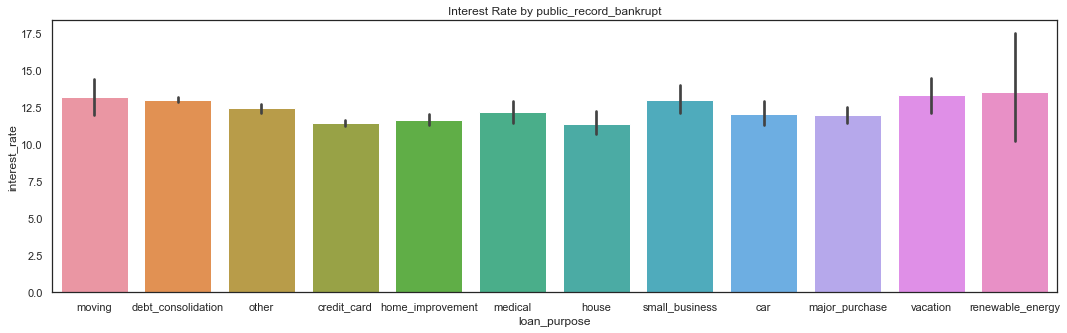
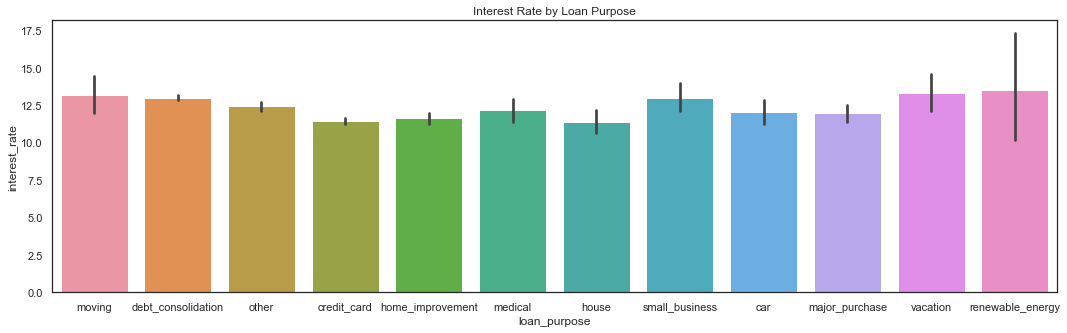
Typo changes

diff --git a/casestudy1.html b/casestudy1.html
@@ -52,7 +52,7 @@
 			<div class="row justify-content-center">
 				<br><br>
 					<h2 class="h4">Dataset Description</h2>
-					<p style="">This Dataset talks about whether individuals can lend loan toother individuals based on various factors. The entire dataset is a list of people whose loans are granted. This dataset help easily identify the risk factor and whether or not we have lend loan to people whom we do not know based on certain factors like income, reason for loa, joint or individual application, what the home ownership status etc. We are aiming to calculate the interest rate that can be given to a person if loan is granted based on the status of the person. </p>
+					<p style="">This Dataset talks about whether individuals can lend loan to other individuals based on various factors. The entire dataset is a list of people whose loans are granted. This dataset help easily identify the risk factor and whether or not we have lend loan to people whom we do not know based on certain factors like income, reason for loan, joint or individual application, what the home ownership status etc. We are aiming to calculate the interest rate that can be given to a person if loan is granted based on the status of the person. </p>
 					<br>
 					<p>I feel that the data is biased as the list of loans consist mostly of people paying off their loan taken and also all the individuals are people who have their loans granted. Hence, an unbiased dataset will help us predict a much better model whether we can give loan and the risk factor involved. The dataset is not clean and has  lots of missing data. There are lots  of categorical unwanted variables that may ruin the calculation of interest rate when training a model.</p>
 					<br><br>
@@ -60,11 +60,11 @@
 					<h2 class="heading-section">Visualizations</h2>
 					<h4 class="h4">Plot 1</h4>
 					<img src="images/CaseStudy1/vis1.png" width=600 height="425" style="vertical-align:bottom">
-					<p>This is a frequency distribution of loan amount given. As we can see, around $10000 is the most frequently given loan to people. And one more interesting fact that we can notice is that the value peaks only at whole numbers which suggests that most people take personal loans without exactly calculating how much they want and hence they take a lump sum and use it accordingly.</p>
+					<p>This is a frequency distribution of loan amount given. As we can see, around $10000 is the most frequently given loan to people. Another interesting fact that we can notice is that the value peaks only at whole numbers which suggests that most people take personal loans without exactly calculating how much they want and hence they take a lump sum and use it accordingly.</p>
 					<br><br>
 					<h4 class="h4">Plot 2</h4>
 					<img src="images/CaseStudy1/vis2.png" width=600 height="425" style="vertical-align:bottom">
-					<p>This graph talks about the interest rate given tothe people who asked for the loan. Surprisingly there are people who have taken interest rates greater than 18% as thats a huge rate. We can see that 10% is the most frequenntly given interest rate.</p>
+					<p>This graph talks about the interest rate given to the people who asked for the loan. Surprisingly there are people who have taken interest rates greater than 18% as thats a huge rate. We can see that 10% is the most frequenntly given interest rate.</p>
 					<br><br>
 					<h4 class="h4">Plot 3</h4>
 					<img src="images/CaseStudy1/vis3.png" width=600 height="425" style="vertical-align:bottom">
@@ -72,7 +72,7 @@
 					<br><br>
 					<h4 class="h4">Plot 4</h4>
 					<img src="images/CaseStudy1/vis4.png" width=600 height="425" style="vertical-align:bottom">
-					<p>This plot talks about different interest rates for different loan_purposes. The line on top of graph talks about possible error rate in the data in that category.</p>
+					<p>This plot talks about different interest rates for different loan purposes. The line on top of graph talks about possible error rate in the data in that category.</p>
 					<br><br>
 					<h4 class="h4">Plot 5</h4>
 					<img src="images/CaseStudy1/vis5.png" width=600 height="425" style="vertical-align:bottom">

diff --git a/casestudy2.html b/casestudy2.html
@@ -79,7 +79,7 @@
 					<h4 class="h4">Revenue in all 3 years</h4>
 					<img src="images/CaseStudy2/vis1.jpg" width=650 height="425" style="vertical-align:bottom">
 					<br><br>
-					<p>Revenues in all 3 years.</p>
+					<p>Total Revenue in all 2015, 2016 and 2017.</p>
 					<br><br>
 					<h4 class="h4">Total Customers vs New Customers</h4>
 					<img src="images/CaseStudy2/vis2.jpg" width=650 height="425" style="vertical-align:bottom">
